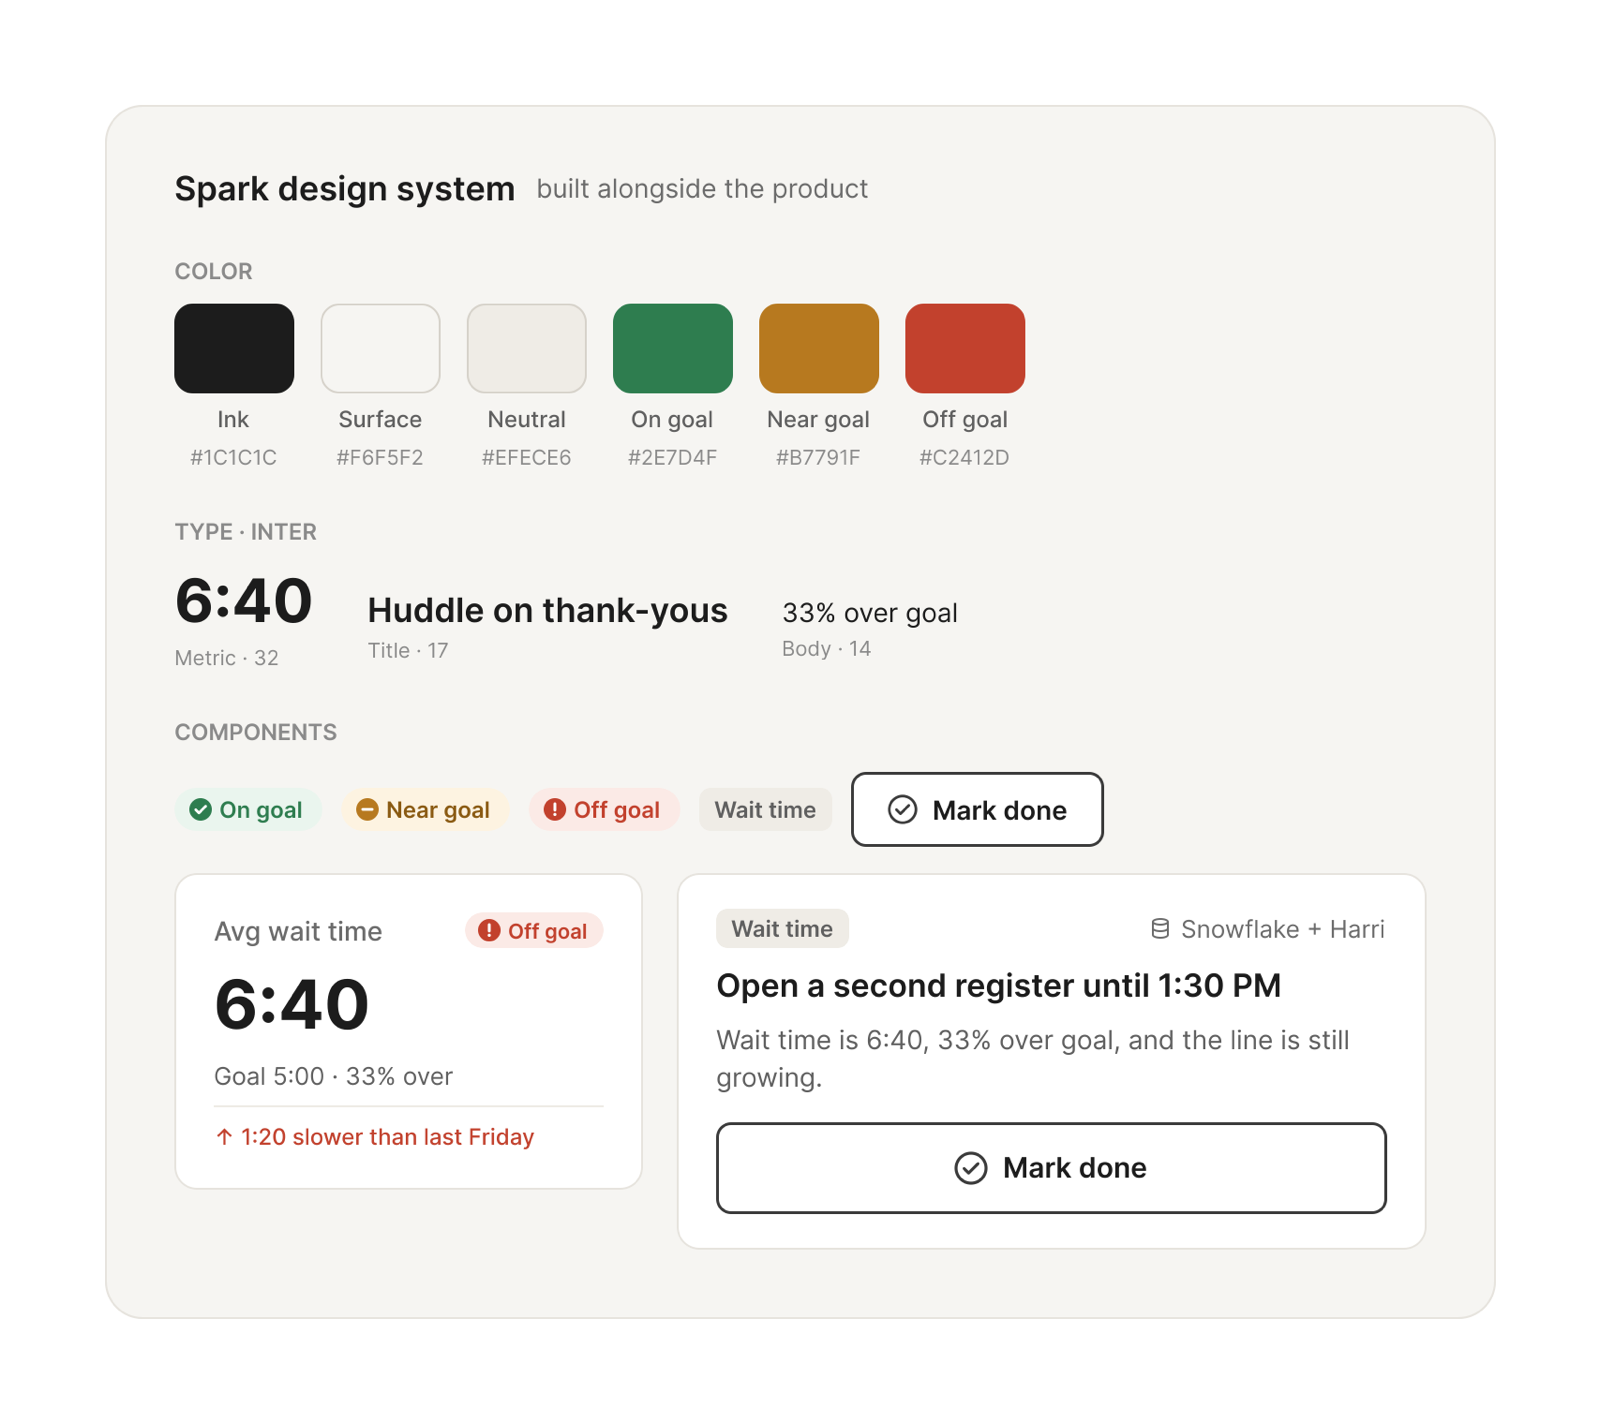
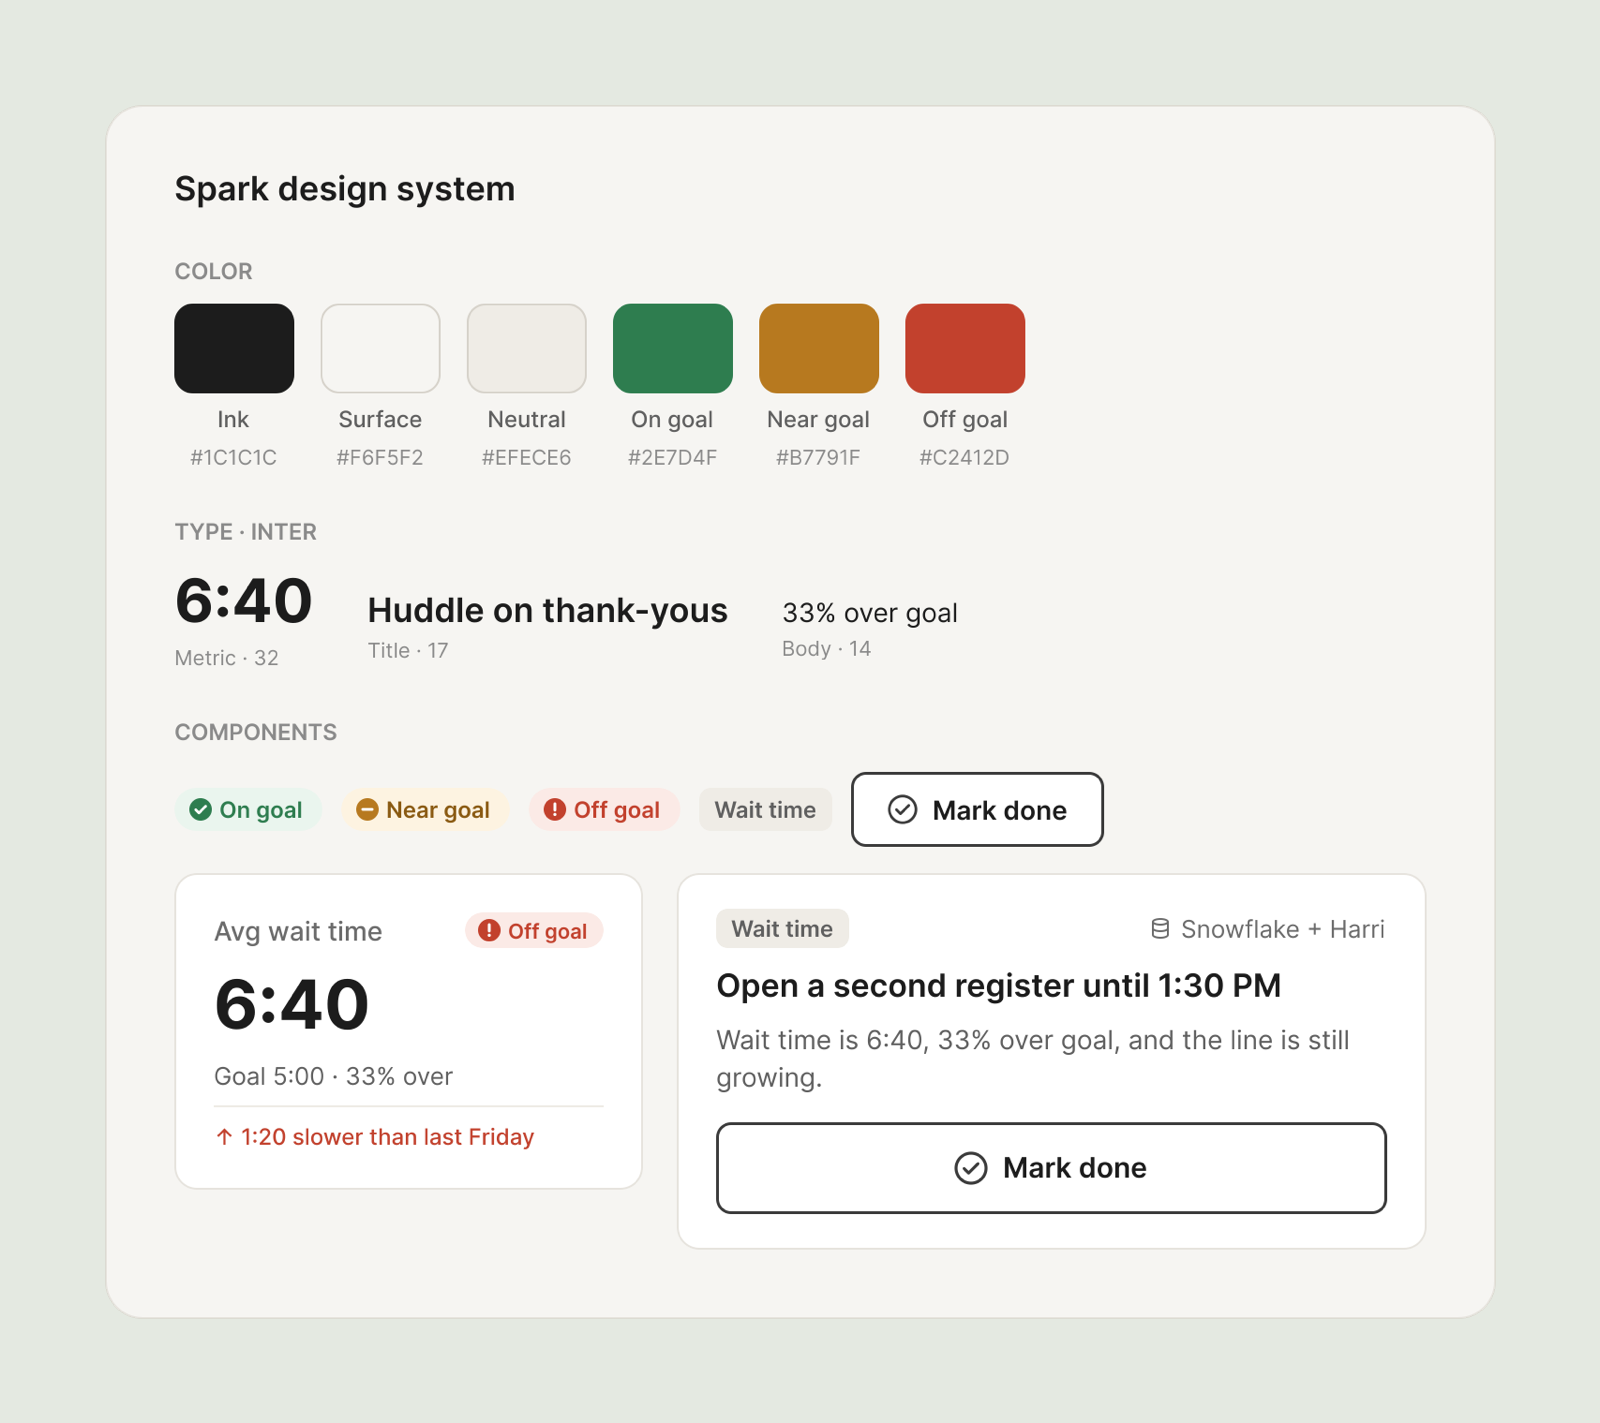
SPARK case study: new copy with section takeaways, matched app sizes, cleaner design system graphic

Changed region(s): [[0.0, 0.0, 1.0, 1.0], [0.3438, 0.1237, 0.5312, 0.1546]]

diff --git a/work/spark/index.html b/work/spark/index.html
@@ -69,12 +69,21 @@
   li::marker { color: var(--muted); }
   .k { color: var(--fg); }           /* the lead-in of a list item, and numbers worth noticing */
   q { quotes: "“" "”"; font-style: italic; }
+  /* each section's takeaway: a larger lead line right under the heading, in the darker text color, so skimming
+     the headings and takeaways alone tells the whole story; iteration takeaways are a step smaller */
+  .takeaway { margin: -8px 0 24px; color: var(--fg); font-size: 20px; line-height: 1.45; text-wrap: balance; }
+  .takeaway.sub { margin: -4px 0 16px; font-size: 18px; }
 
   /* graphics from the slides (cropped, without the slide around them) and videos: full width in the column,
      in a rounded frame like /work. If an image file is missing, its frame shows a label naming the file instead. */
   .slide { position: relative; margin: 40px 0; border-radius: 14px; overflow: hidden; background: var(--frame); aspect-ratio: 16 / 9; }
   .slide:has(img, video) { aspect-ratio: auto; }   /* filled: the frame takes the graphic's own shape */
   .slide img, .slide video { position: relative; z-index: 1; display: block; width: 100%; height: auto; }
+  /* the videos show the app at exactly the size of the iteration screens: the same frame shape (1600 x 1164),
+     with the video's window (1433 of its 1920 px) scaled to the screens' window (1036 of 1148 px), centered;
+     only plain background around the window is trimmed */
+  .slide.iter:has(video) { aspect-ratio: 1600 / 1164; }
+  .slide.iter video { position: absolute; left: 50%; top: 50%; width: 120.94%; height: auto; max-width: none; transform: translate(-50%, -50%); }
   .slide .ph { position: absolute; inset: 0; display: grid; place-content: center; gap: 4px; padding: 16px; text-align: center; color: var(--muted); font-size: 13px; line-height: 1.5; }
   .slide .ph b { color: var(--fg); font-weight: 500; }
   .pair .slide { margin: 0; }
@@ -86,6 +95,8 @@
 
   @media (max-width: 700px) {
     .intro { margin-top: 56px; }
+    .takeaway { font-size: 18px; }
+    .takeaway.sub { font-size: 17px; }
     .stats { grid-template-columns: 1fr; gap: 14px; }
     section { margin-top: 64px; }
     section::before { margin-bottom: 32px; }
@@ -106,32 +117,38 @@
   <div class="intro">
     <h1>SPARK</h1>
     <p class="lede">Helping Shake Shack General Managers turn data into next steps</p>
-    <p class="meta">Shake Shack · Senior UX Designer · AI-powered restaurant tool (MVP)</p>
+    <p class="meta">Shake Shack · Product Designer · AI-powered restaurant tool (MVP)</p>
 
     <ul class="stats" aria-label="Results">
       <li><span class="n">20 min → seconds</span><span class="l">from insight to action</span></li>
       <li><span class="n">65%</span><span class="l">of suggested actions accepted</span></li>
-      <li><span class="n">10 of 10</span><span class="l">GMs wanted to keep using it</span></li>
+      <li><span class="n">10 of 10</span><span class="l">GMs wanted to keep using the tool</span></li>
     </ul>
 
-    <figure class="slide">
+    <figure class="slide iter">
       <video src="/work/media/shake-shack/spark.mp4" poster="/work/media/shake-shack/spark-poster.jpg" width="1920" height="1200"
         autoplay preload="auto" muted loop playsinline aria-label="SPARK, the selected design: switching from today's hospitality metrics to this week's, then marking a recommended action done; each action names its data source, such as Snowflake or Harri"></video>
     </figure>
   </div>
 
   <section>
+    <h2>My role</h2>
+    <p>I was the sole product designer on SPARK. I owned the design end to end: GM research, journey mapping, the product design, and the SPARK design system. I worked with a product manager and an offshore engineering team.</p>
+  </section>
+
+  <section>
     <h2>The problem</h2>
-    <p>General Managers are accountable for hospitality scores on every shift, but the data they need is spread across several tools. Before a GM could act on anything, they had to check them all.</p>
-    <p>We interviewed GMs, then recorded and transcribed the sessions with Otter AI. I mapped their journey to find where the time went:</p>
+    <p class="takeaway">GMs spent about 20 minutes jumping between tools before they could fix anything.</p>
+    <p>General Managers are accountable for hospitality scores on every shift. But the data they need lives in three different tools, and none of them say what to do next.</p>
+    <p>I interviewed GMs and mapped their journey to find where the time went:</p>
     <ul>
-      <li><span class="k">Noticing a problem.</span> They usually found issues by walking the floor. <q>I find out when the line’s out the door.</q></li>
-      <li><span class="k">Snowflake.</span> Reports were slow and there was no live view. <q>I have to dig to find the right report.</q></li>
-      <li><span class="k">Tableau.</span> Survey scores lagged behind the shift. <q>By the time I see it, lunch is over.</q></li>
-      <li><span class="k">Harri.</span> The schedule didn’t connect to wait times. <q>I’m flipping between screens.</q></li>
-      <li><span class="k">Deciding.</span> Even after all that, they still weren’t sure what to fix first. <q>Just tell me what to fix first.</q></li>
+      <li><span class="k">Noticing a problem:</span> they walked the floor. <q>I find out when the line’s out the door.</q></li>
+      <li><span class="k">Snowflake:</span> slow reports, no live view. <q>I have to dig to find the right report.</q></li>
+      <li><span class="k">Tableau:</span> survey scores lagged behind the shift. <q>By the time I see it, lunch is over.</q></li>
+      <li><span class="k">Harri:</span> the schedule didn’t connect to wait times. <q>I’m flipping between screens.</q></li>
+      <li><span class="k">Deciding:</span> still no clear priority. <q>Just tell me what to fix first.</q></li>
     </ul>
-    <p>By GMs’ own estimates, it took about <span class="k">20 minutes</span> to get from noticing a problem to acting on it. During a lunch rush, that’s too slow.</p>
+    <p>By GMs’ own estimates, it took about 20 minutes to get from noticing a problem to acting on it.</p>
 
     <figure class="slide">
       <img src="/work/media/spark/journey-map.png" width="1600" height="564" loading="lazy" decoding="async" onerror="this.remove()"
@@ -141,28 +158,30 @@
   </section>
 
   <section>
-    <h2>Goals</h2>
-    <p><span class="k">Business need:</span> improve hospitality scores across restaurants.</p>
-    <p><span class="k">Hypothesis:</span> if insights and next steps live in one place, GMs will act faster and more often.</p>
-    <p><span class="k">Success criteria:</span></p>
+    <h2>The hypothesis</h2>
+    <p class="takeaway">GMs didn’t need more data. They needed to know what to do next.</p>
+    <p>Shake Shack wanted better hospitality scores across its restaurants. My hypothesis was that if insights and next steps lived in one place, GMs would act faster and more often.</p>
+    <p>I defined success as:</p>
     <ul>
-      <li>Reduce the time from insight to action</li>
-      <li>Drive the acceptance rate of suggested actions</li>
-      <li>Achieve high GM satisfaction</li>
+      <li>Less time from insight to action</li>
+      <li>Suggested actions accepted</li>
+      <li>High GM satisfaction</li>
     </ul>
   </section>
 
   <section>
     <h2>The user</h2>
-    <p>GMs are on the floor during shifts, not at a desk. They piece together data from Snowflake, Tableau and Harri, and they’re accountable for hospitality scores on every shift. Anything I designed had to be readable at a glance and usable mid-shift.</p>
+    <p class="takeaway">Designed for a GM on the floor, mid-shift, with seconds to spare.</p>
+    <p>GMs aren’t at a desk. They glance at a screen between tasks while running the shift. Every screen had to answer “what’s wrong and what do I do?” in one look.</p>
   </section>
 
   <section>
     <h2>Constraints</h2>
+    <p class="takeaway">Each constraint shaped how I worked.</p>
     <ul>
-      <li><span class="k">MVP scope.</span> The full vision covered hospitality, labor, inventory and team. We cut the MVP to hospitality only so we could prove the core idea first.</li>
-      <li><span class="k">Offshore dev team.</span> I had to make handoff clear enough to work across time zones without constant back-and-forth.</li>
-      <li><span class="k">A design system built alongside the product.</span> I created the SPARK design system as we went. It included status colors for on, near and off goal, a simple Inter type scale, and core components like metric cards and action cards. This kept the team consistent and made the product easy to extend later.</li>
+      <li><span class="k">MVP scope → hospitality only.</span> The full vision covered labor, inventory and team too. I cut the MVP to one area so we could prove the core idea fast and with less risk.</li>
+      <li><span class="k">An offshore dev team → prototype fast.</span> With limited overlap across time zones, I used Figma MCP and AI tools to prototype quickly, so ideas moved from design to working software faster.</li>
+      <li><span class="k">No existing design system → I built one alongside the product.</span> Status colors (on, near and off goal), an Inter type scale, and reusable metric and action cards kept the build consistent and make it easy to add labor or inventory next.</li>
     </ul>
 
     <figure class="slide">
@@ -174,26 +193,30 @@
 
   <section>
     <h2>Iterations</h2>
+    <p class="takeaway">Three rounds, each fixing what the last got wrong: what → why → can I trust it.</p>
 
     <h3>Iteration one: metrics first</h3>
-    <p>The dashboard led with metric cards showing how today compared with goal, and suggested actions sat below. GMs could see what was off, but they still asked, <q>So what do I do?</q></p>
+    <p class="takeaway sub">Actions and metrics sat side by side, with nothing connecting them.</p>
+    <p>Suggested actions were ranked by severity, meaning how far each metric was from its goal. But nothing linked an action to the metric behind it. <q>Open a second register</q> sat next to six metric cards, and GMs had to figure out which number it was responding to. So they went back to the metrics to work it out themselves, the same cross-referencing SPARK was supposed to end.</p>
     <figure class="slide">
       <img src="/work/media/spark/iteration-one.png" width="1600" height="1164" loading="lazy" decoding="async" onerror="this.remove()"
         alt="Iteration one: a dashboard led by metric cards comparing today's hospitality numbers with goal, with suggested actions below them.">
       <figcaption class="ph" aria-hidden="true"><b>iteration-one.png</b>Figma slide 1:1670 (Iteration one)</figcaption>
     </figure>
 
-    <h3>Iteration two: actions first</h3>
-    <p>I flipped the hierarchy. Recommended actions moved to the top, ranked by impact on guests, and each one came with its reason. For example: <q>Open a second register until 1:30 PM. Wait time is 6:40, 33% over goal, and the line is still growing.</q> GMs no longer had to cross-reference metrics to understand why.</p>
+    <h3>Iteration two: actions with context</h3>
+    <p class="takeaway sub">Each action now has two parts: the recommendation, and the driver behind it.</p>
+    <p>The recommendation says what to do: <q>Open a second register until 1:30 PM.</q> The driver explains why, using live data: <q>Wait time is 6:40, 33% over goal, and the line is still growing.</q> With the reason built into each action, GMs no longer needed the metrics to decide. So actions moved to the top, and the metrics moved to a secondary position as supporting evidence.</p>
     <figure class="slide">
       <img src="/work/media/spark/iteration-two.png" width="1600" height="1164" loading="lazy" decoding="async" onerror="this.remove()"
-        alt="Iteration two: recommended actions moved to the top, ranked by impact on guests, each with its reason, such as opening a second register until 1:30 PM because wait time is 33% over goal.">
+        alt="Iteration two: recommended actions moved to the top, each with its reason, such as opening a second register until 1:30 PM because wait time is 33% over goal.">
       <figcaption class="ph" aria-hidden="true"><b>iteration-two.png</b>Figma slide 1:1706 (Iteration two)</figcaption>
     </figure>
 
     <h3>Iteration three: show the source (selected)</h3>
-    <p>Each action now names where its data comes from, such as Snowflake or Harri. Seeing the source gave GMs enough trust in a recommendation to act on it.</p>
-    <figure class="slide">
+    <p class="takeaway sub">GMs won’t act on AI they can’t check, so every action names its source.</p>
+    <p>Even with a reason attached, GMs hesitated. They’re accountable for every shift, and before SPARK they’d always pulled the numbers themselves. So each action now shows where its data comes from, like Snowflake or Harri, the tools they already trusted. A familiar source gave them the confidence to act.</p>
+    <figure class="slide iter"><!-- Iteration three: Figma slide 1:1713, shown as the Spark walkthrough video -->
       <video data-src="/work/media/shake-shack/spark.mp4" poster="/work/media/shake-shack/spark-poster.jpg" width="1920" height="1200"
         data-lazy preload="none" muted loop playsinline aria-label="Iteration three, the selected design: each recommended action names the source of its data, such as Snowflake or Harri"></video>
     </figure>
@@ -201,16 +224,18 @@
 
   <section>
     <h2>Results</h2>
+    <p class="takeaway">In a 1-month pilot across 10 restaurants, GMs acted in seconds, and every one of them wanted to keep SPARK.</p>
     <ul>
       <li><span class="k">20 minutes → seconds</span> from insight to action</li>
-      <li><span class="k">65%</span> of suggested actions accepted</li>
-      <li><span class="k">10 of 10</span> GMs wanted to keep using SPARK</li>
+      <li><span class="k">65%</span> of suggested actions accepted. GMs followed SPARK’s recommendation about two out of three times.</li>
+      <li><span class="k">10 of 10</span> GMs wanted to keep using SPARK after the pilot</li>
     </ul>
   </section>
 
   <section>
     <h2>Reflection</h2>
-    <p><span class="k">People act on AI they can verify.</span> The biggest jump didn’t come from smarter recommendations. It came from showing GMs where each recommendation came from.</p>
+    <p class="takeaway">People act on AI they can verify.</p>
+    <p>When AI makes a recommendation, it has to show where the data comes from. A clear source is what turns a suggestion into something people trust enough to act on. It’s how I now approach every AI product I design.</p>
   </section>
 </main>
 
